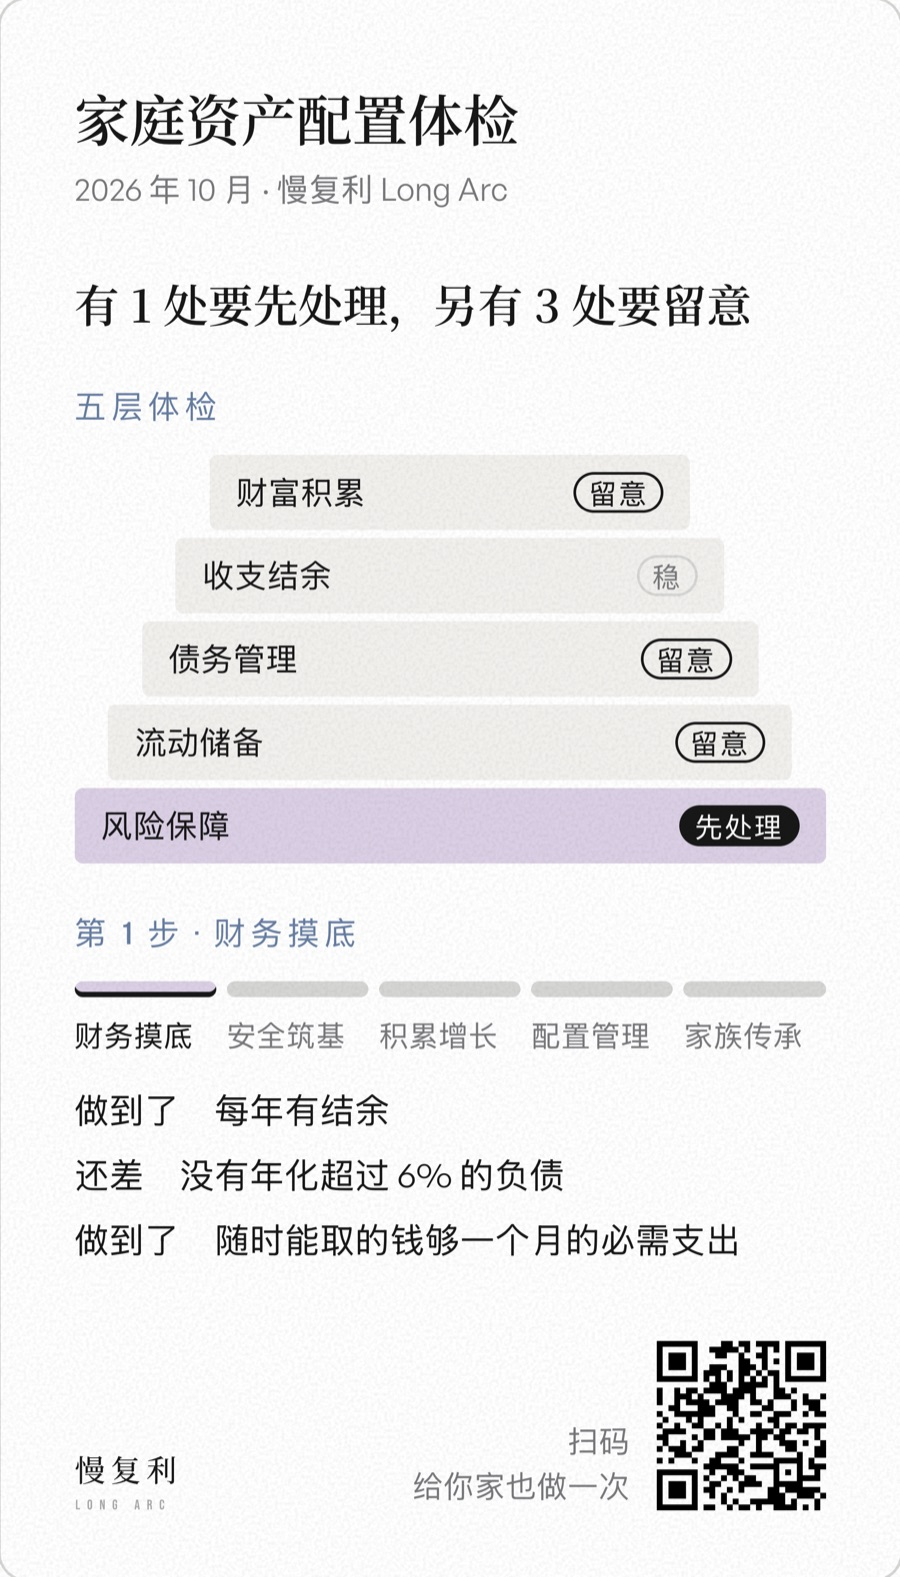
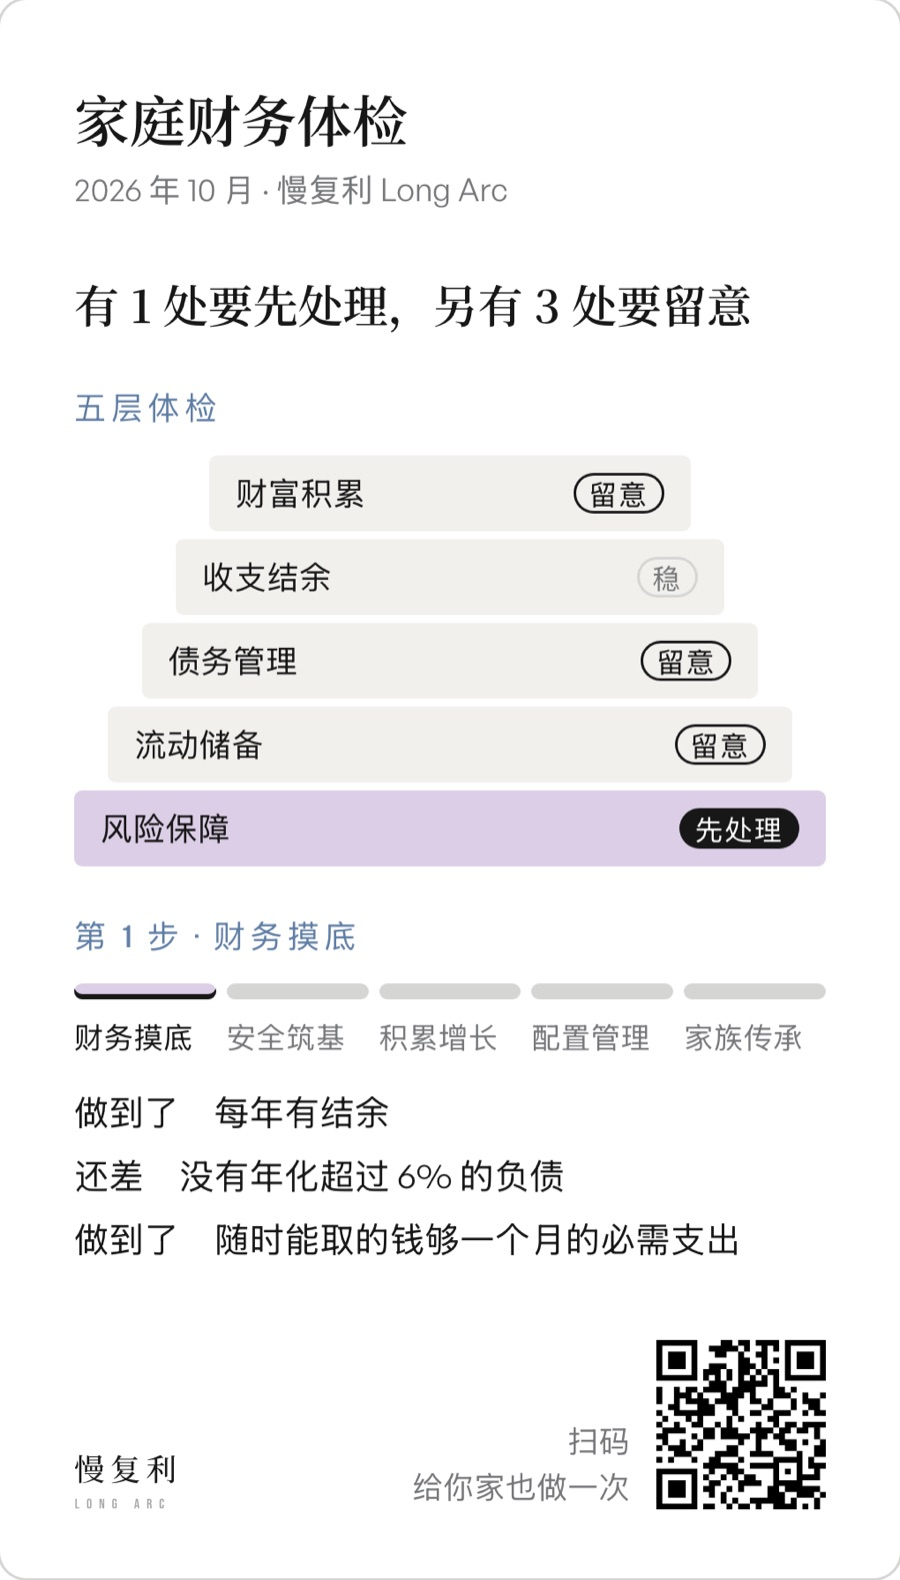
改名：家庭财务体检 · Household Financial Checkup

diff --git a/checkup.js b/checkup.js
@@ -1,4 +1,4 @@
-/* 家庭资产配置体检：计算规则见 docs/方法说明.md */
+/* 家庭财务体检：计算规则见 docs/方法说明.md */
 (() => {
 const D = document, KEY = 'la-checkup-v5', OLD = 'la-checkup-v2', YEAR = new Date().getFullYear();
 const ART = (slug, text) => `<a class="lk" href="https://longarcsociety.com/assets/${slug}" target="_blank" rel="noreferrer">${text}</a>`;
@@ -818,7 +818,7 @@ function renderCard() {
   const nmDef = (() => { const m = st.members.find(x => x.role === 'main') || st.members[0]; const v = m ? String(m.name || '').trim() : ''; return /^(丈夫|妻子|先生|太太|老公|老婆|爸爸|妈妈|家庭成员)$/.test(v) ? '' : v })();
   const ni = D.querySelector('[data-k="shareName"]'); if (ni) ni.placeholder = nmDef || '比如：加宁';
   const who = (has(st.shareName) || String(st.shareName || '').trim() ? String(st.shareName).trim() : nmDef);
-  let h = `<div class="ct">${who ? `${esc(who)}家的资产配置体检` : '家庭资产配置体检'}</div><div class="cd">${d.getFullYear()} 年 ${d.getMonth() + 1} 月 · 慢复利 Long Arc</div>`;
+  let h = `<div class="ct">${who ? `${esc(who)}家的财务体检` : '家庭财务体检'}</div><div class="cd">${d.getFullYear()} 年 ${d.getMonth() + 1} 月 · 慢复利 Long Arc</div>`;
   if (on('verdict')) h += `<div class="sv">${c.head}</div><div class="ss"><div class="lb">五层体检</div><div class="cl">${[...c.order].reverse().map(k => { const i = c.order.indexOf(k), dd = c.dims[k]; return `<div class="cr${dd.lvl === 2 ? ' l2' : ''}" style="width:${100 - i * 9}%"><span>${LAYER[k][0]}</span><span class="m">${money ? dd.mm : ''}</span>${tag(dd.lvl)}</div>` }).join('')}</div></div>`;
   if (on('stage')) h += `<div class="ss"><div class="lb">第 ${c.si + 1} 步 · ${c.cur.name}</div><div class="trk">${c.S.map((s, i) => `<button type="button" tabindex="-1" class="${i < c.si ? 'done' : ''}${i === c.si ? ' on' : ''}"><i></i><span>${s.name}</span></button>`).join('')}</div>
     <ul class="cg">${c.cur.conds.map(([ok, t], j) => `<li>${ok ? '做到了' : '还差'}　${t}${money && !ok && c.cd[c.si][j] ? `<div class="s" style="font-size:11px">${c.cd[c.si][j]}</div>` : ''}</li>`).join('')}</ul></div>`;
@@ -833,7 +833,7 @@ D.addEventListener('click', e => {
   const sb = e.target.closest('[data-trk] button[data-si]'); if (sb) { const i = +sb.dataset.si; stagePeek = stagePeek === i ? null : i; render(); return }
   const b = e.target.closest('[data-act="png"],[data-act="pdf"]'); if (!b) return;
   if (b.dataset.act === 'pdf') { D.body.classList.add('pr2'); D.querySelectorAll('[data-mod="2"] details').forEach(x => { x.open = true }); window.print(); return }
-  const go = () => html2canvas(D.querySelector('[data-card]'), { scale: 3, backgroundColor: '#ffffff' }).then(cv => { const a = D.createElement('a'); a.download = `家庭资产配置体检-${stamp()}.png`; a.href = cv.toDataURL('image/png'); a.click(); b.disabled = false }).catch(() => { b.disabled = false; toast('没生成成功，再试一次') });
+  const go = () => html2canvas(D.querySelector('[data-card]'), { scale: 3, backgroundColor: '#ffffff' }).then(cv => { const a = D.createElement('a'); a.download = `家庭财务体检-${stamp()}.png`; a.href = cv.toDataURL('image/png'); a.click(); b.disabled = false }).catch(() => { b.disabled = false; toast('没生成成功，再试一次') });
   b.disabled = true;
   if (window.html2canvas) go(); else { const s = D.createElement('script'); s.src = 'lib/html2canvas.min.js'; s.onload = go; s.onerror = () => { b.disabled = false; toast('生成图片的组件没加载上，再试一次') }; D.head.append(s) }
 });
@@ -925,9 +925,9 @@ D.addEventListener('click', e => {
   if (act === 'tierauto') { e.preventDefault(); st.tier = ''; resetMonths(); save(); render(); return }
   if (act === 'sample') { if (hasData() && !confirm('用示例家庭的数据覆盖现在填的内容？')) return; st = sample(); fillForm(); save(); render(); toast('已填入示例家庭：夫妻 38 岁和 36 岁，孩子 11 岁') }
   if (act === 'clear') { if (!confirm('清空所有填写的内容？清空之前可以先备份。')) return; st = blank(); fillForm(); save(); render(); toast('已清空') }
-  if (act === 'backup') { download(`家庭资产配置体检-${stamp()}.json`, JSON.stringify({ app: 'la-checkup', version: 5, saved: new Date().toISOString(), data: st }, null, 2), 'application/json'); toast('备份文件已下载') }
+  if (act === 'backup') { download(`家庭财务体检-${stamp()}.json`, JSON.stringify({ app: 'la-checkup', version: 5, saved: new Date().toISOString(), data: st }, null, 2), 'application/json'); toast('备份文件已下载') }
   if (act === 'restore') D.querySelector('[data-file]').click();
-  if (act === 'md') { const md = toMd(); download(`家庭资产配置体检-${stamp()}.md`, md, 'text/markdown'); try { navigator.clipboard && navigator.clipboard.writeText(md) } catch (err) { } toast('已下载，也复制到了剪贴板，可以直接贴给 AI') }
+  if (act === 'md') { const md = toMd(); download(`家庭财务体检-${stamp()}.md`, md, 'text/markdown'); try { navigator.clipboard && navigator.clipboard.writeText(md) } catch (err) { } toast('已下载，也复制到了剪贴板，可以直接贴给 AI') }
   if (act === 'print') window.print();
 });
 D.querySelector('[data-file]').addEventListener('change', e => {
@@ -946,7 +946,7 @@ let tt; function toast(t) { const el = D.querySelector('[data-toast]'); el.textC
 /* ── 导出给 AI ── */
 function toMd() {
   const r = calc(), L = [];
-  L.push('# 我的家庭资产配置体检', '', `用慢复利「家庭资产配置体检」整理，${stamp()}。金额单位：万元。下面的数是按一套方法算出的参考，请帮我检查有没有漏掉的情况、哪些数值得再想想。不需要推荐具体的基金或产品。`, '');
+  L.push('# 我的家庭财务体检', '', `用慢复利「家庭财务体检」整理，${stamp()}。金额单位：万元。下面的数是按一套方法算出的参考，请帮我检查有没有漏掉的情况、哪些数值得再想想。不需要推荐具体的基金或产品。`, '');
   const fin = [['cash', defsOf('cash')], ['inv', defsOf('inv')]].flatMap(([g, defs]) => defs.filter(d => amt(g, d.k) > 0).map(d => `${d.name} ${amt(g, d.k)}（预期年化 ${rateOf(g, d)}%）`));
   L.push('## 资产总览', `- 家庭成员：${st.members.map(m => `${m.name || '家庭成员'}（${ROLEN[m.role]}，${m.age || '?'} 岁${n(m.income) ? `，税后年收入 ${n(m.income)}，${{ stable: '稳定', vol: '波动大', mkt: '跟着股市' }[m.itype]}` : ''}）`).join('、')}`,
     `- 金融资产：${fin.join('；') || '未填'}；加权约 ${pc(r.ret, 1)}`,

diff --git a/index.html b/index.html
@@ -1,6 +1,6 @@
 <!DOCTYPE html>
 <html lang="zh-CN"><head><meta charset="utf-8"><meta name="viewport" content="width=device-width, initial-scale=1">
-<title>家庭资产配置体检｜Long Arc</title>
+<title>家庭财务体检｜Long Arc</title>
 <link rel="icon" href="assets/la-monogram-ink-sky.svg">
 <link rel="preconnect" href="https://fonts.googleapis.com">
 <link href="https://fonts.googleapis.com/css2?family=Bebas+Neue&family=Noto+Serif+SC:wght@500;600&display=swap" rel="stylesheet">
@@ -377,12 +377,12 @@ details.how p{padding:0}
 </style>
 </head>
 <body data-c="lilac" data-p="tool"><div class="prog" aria-hidden="true"></div><div class="page tool" data-c="lilac">
-<header class="hd"><a href="https://longarcsociety.com/"><svg xmlns="http://www.w3.org/2000/svg" viewBox="0 0 212 140" class="la" role="img" aria-label="Long Arc 回到首页"><path fill="#171717" d="M8.2 0H30.2V120H66.4V140H8.2Z M157 0H186.8L209.6 140H187.6L183.6 112.2V112.6H158.6L154.6 140H134.2ZM181 93.6 171.2 24.4H170.8L161.2 93.6Z"/><circle cx="105.8" cy="123" r="17"/></svg></a><nav class="nav"><a class="n pub" href="https://longarcsociety.com/assets/invest" target="_blank" rel="noreferrer">方法文章</a><a class="n pub" href="https://github.com/Jianing1117/assets-checkup" target="_blank" rel="noreferrer">GITHUB</a></nav></header>
+<header class="hd"><a href="https://longarcsociety.com/"><svg xmlns="http://www.w3.org/2000/svg" viewBox="0 0 212 140" class="la" role="img" aria-label="Long Arc 回到首页"><path fill="#171717" d="M8.2 0H30.2V120H66.4V140H8.2Z M157 0H186.8L209.6 140H187.6L183.6 112.2V112.6H158.6L154.6 140H134.2ZM181 93.6 171.2 24.4H170.8L161.2 93.6Z"/><circle cx="105.8" cy="123" r="17"/></svg></a><nav class="nav"><a class="n pub" href="https://longarcsociety.com/assets/invest" target="_blank" rel="noreferrer">方法文章</a><a class="n pub" href="https://github.com/Jianing1117/household-checkup" target="_blank" rel="noreferrer">GITHUB</a></nav></header>
 <div class="wrap">
 
 <section class="rv" style="padding-top:clamp(48px,8cqw,120px)">
   <div class="lb">LONG ARC · 投资配置 · TOOL</div>
-  <h1 class="h1" style="margin-top:14px">家庭资产配置体检</h1><div class="rule"></div>
+  <h1 class="h1" style="margin-top:14px">家庭财务体检</h1><div class="rule"></div>
   <p class="lead" style="margin-top:22px;max-width:36em">一次性的检查，分三部分：先填体检问卷，再看体检报告，最后可以写一页投资政策书。报告先给总评和资产总览，再告诉你在哪个财务阶段、五层里哪一层要先补、钱该怎么放，最后列出接下来要做的几件事，可以存成图片或 PDF。</p>
   <p class="s" style="margin-top:12px;max-width:42em">你填的数只存在这台设备的浏览器里，不会上传。换设备或清理浏览器之前，先备份数据。所有金额的单位都是万元。</p>
   <div class="bar no-print">
@@ -538,7 +538,7 @@ details.how p{padding:0}
     <p class="hs">分享图默认不带金额。勾选要放进去的部分；只给自己存的话，可以打开「带上金额」。图在你的浏览器里生成，不会上传。</p>
     <div class="share">
       <div>
-        <div class="fs one no-print" style="margin-top:0;margin-bottom:26px"><label class="f"><span>卡片上的名字</span><em>标题会写成「××家的资产配置体检」；空着就用家庭成员里主要收入者的名字</em><div class="in"><input class="field" type="text" data-k="shareName" maxlength="12"></div></label></div>
+        <div class="fs one no-print" style="margin-top:0;margin-bottom:26px"><label class="f"><span>卡片上的名字</span><em>标题会写成「××家的财务体检」；空着就用家庭成员里主要收入者的名字</em><div class="in"><input class="field" type="text" data-k="shareName" maxlength="12"></div></label></div>
         <div class="opts2" data-shopts>
           <label><input type="checkbox" data-c="verdict" checked>总评和五层体检</label>
           <label><input type="checkbox" data-c="stage" checked>所在的阶段和这一步的目标</label>
@@ -633,7 +633,7 @@ details.how p{padding:0}
 
 </div>
 <footer class="ftr"><div class="ftr-in"><div class="ftr-a"><a href="https://longarcsociety.com/"><img class="wm" src="assets/la-wordmark-left.svg" alt="慢复利 Long Arc"></a></div>
-  <div class="ftr-r"><nav class="ftr-z"><a href="https://longarcsociety.com/assets/invest" target="_blank" rel="noreferrer">投资配置文章</a><a href="https://github.com/Jianing1117/assets-checkup/blob/main/docs/方法说明.md" target="_blank" rel="noreferrer">方法说明</a><a href="https://github.com/Jianing1117/assets-checkup" target="_blank" rel="noreferrer">GitHub</a><span class="lb g">MIT · © 2026</span></nav></div>
+  <div class="ftr-r"><nav class="ftr-z"><a href="https://longarcsociety.com/assets/invest" target="_blank" rel="noreferrer">投资配置文章</a><a href="https://github.com/Jianing1117/household-checkup/blob/main/docs/方法说明.md" target="_blank" rel="noreferrer">方法说明</a><a href="https://github.com/Jianing1117/household-checkup" target="_blank" rel="noreferrer">GitHub</a><span class="lb g">MIT · © 2026</span></nav></div>
 </div></footer>
 </div>
 <div class="toast" data-toast></div>

diff --git a/README.en.md b/README.en.md
@@ -1,4 +1,4 @@
-# Household Asset Checkup · assets-checkup
+# Household Financial Checkup · household-checkup
 
 [中文](README.md)
 

diff --git a/README.md b/README.md
@@ -1,4 +1,4 @@
-# 家庭资产配置体检 · assets-checkup
+# 家庭财务体检 · household-checkup
 
 [English](README.en.md)
 
